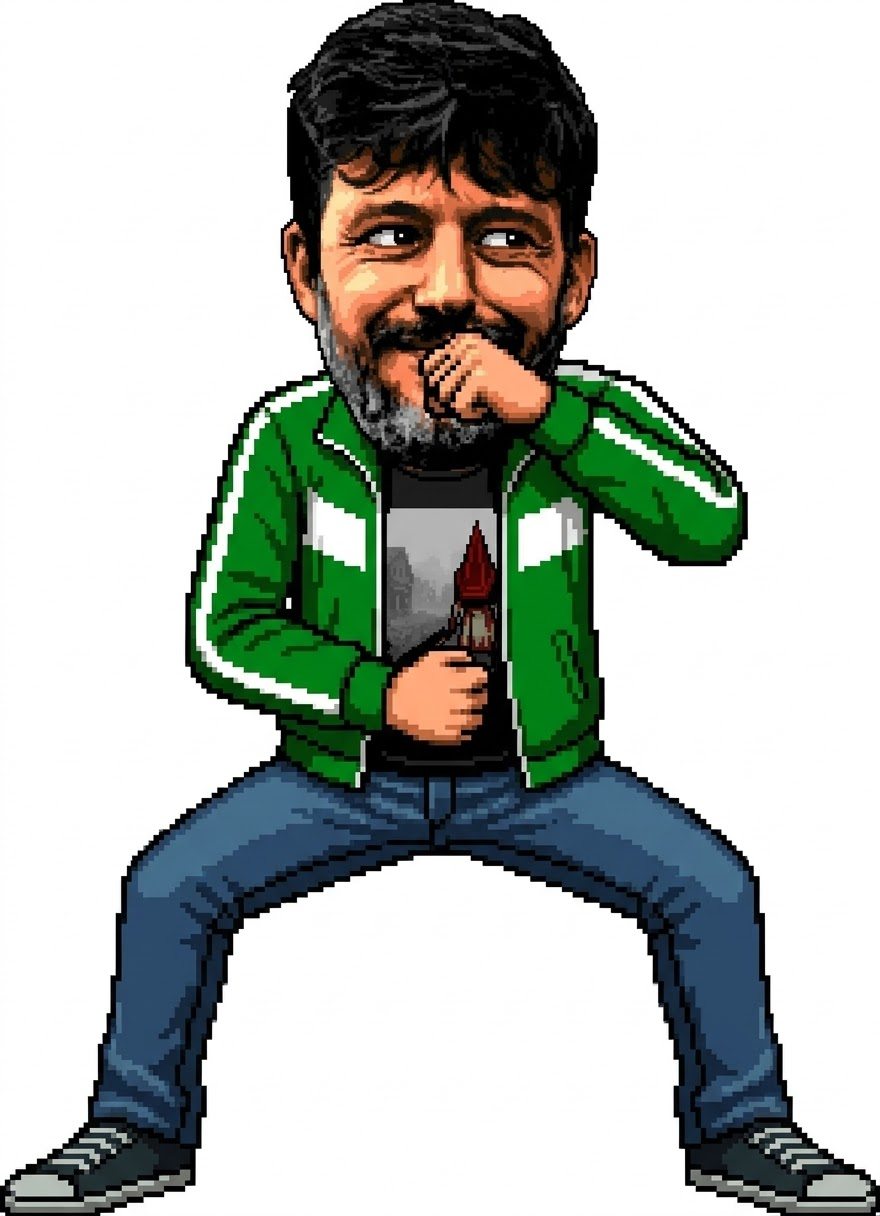
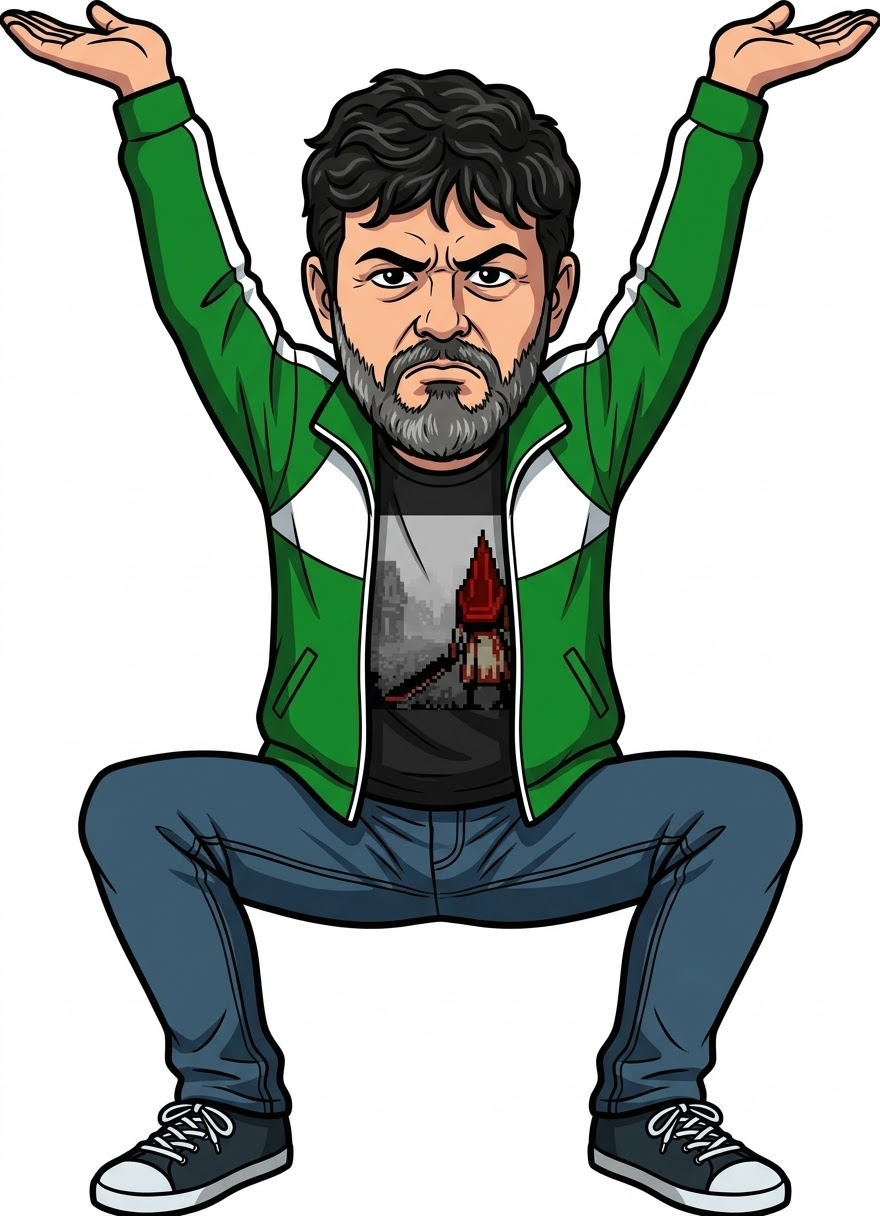
Intro : Julien refait dans le même style que les autres (pose bras en V)
Claude-Session: https://claude.ai/code/session_01Nh56uCfCYFQpr6HwXFtrQ7

diff --git a/NOTES.md b/NOTES.md
@@ -94,7 +94,8 @@
   `python3 outils/intro/preparer_poses.py` → `intro_pose_<id>.png` (boîte 460 x 520), prioritaires sur les bustes.
   REÇUES : Beufa, Kédric, Julien (nouvelle pose « Guldo » demandée), Greg, Rémi (v2 genou au sol ; l'ancienne au cœur gardée
   en `ancienne_pose_remi_coeur.jpg`), Lionel (bras inversés sur l'image reçue : `outils/intro/miroir_lionel.py` la
-  retourne et remet NEO-SPORTS / logo / frisbee à l'endroit). À REFAIRE si Fabien l'envoie : Julien en pose « Guldo ».
+  retourne et remet NEO-SPORTS / logo / frisbee à l'endroit). Julien refait en style BD, pose « Guldo » (l'ancien en pixel art :
+  `ancienne_pose_julien_pixel.jpg`). LES 6 POSES SONT FAITES.
 - TITRE = POSE DE GROUPE (demande de Fabien) : les 6 serrés et superposés comme le Commando (place de chacun :
   `INTRO.groupe`, du fond vers l'avant ; Beufa le chef au centre devant), puis le logo tombe 2 temps après, en haut.
 
